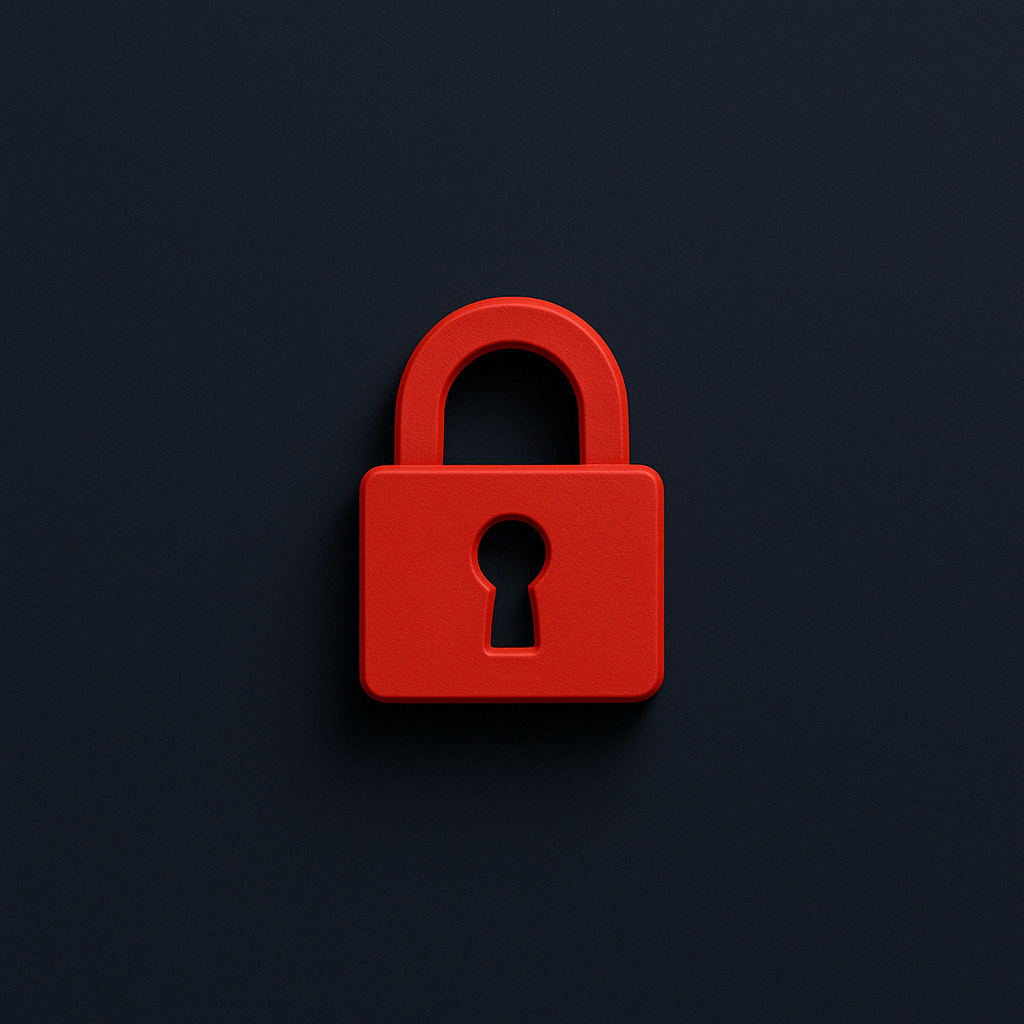
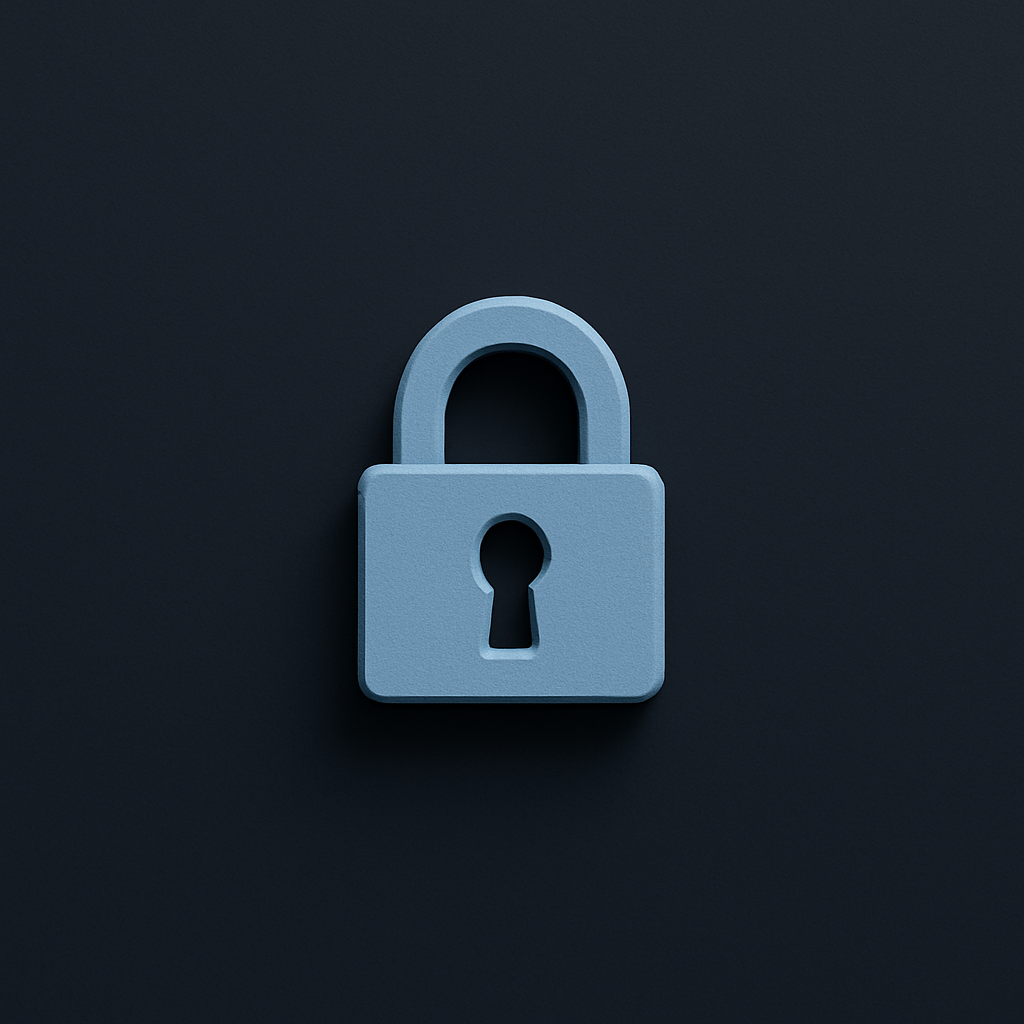
Adding secure content link to documentation portal (#67)

Changed region(s): [[0.3438, 0.2812, 0.6562, 0.6875]]

diff --git a/docs/index.md b/docs/index.md
@@ -398,6 +398,20 @@ The AMD Instinct Documentation site provides comprehensive guides and technical 
 <p class="paragraph">Explore the OpenMP programming model.</p>
 :::::
 
+:::::{grid-item-card}
+:padding: 1
+:img-top: ./images/secure-docs.png
+:class-img-top: small-sd-card-img-top
+:class-body: small-sd-card
+:class: small-sd-card
++++
+<a href="https://docs.amd.com/v/u/en-US/ug1729-amd-instinct-accelerators" class="card-header-link">
+  <h2 class="card-header">AMD Technical Information Portal</h2>
+</a>
+<p class="paragraph"> Additional NDA technical documentation, software, and design collateral for AMD Instinct products;
+Login Required </p>
+:::::
+
 ::::::
 
 ::::::::::
